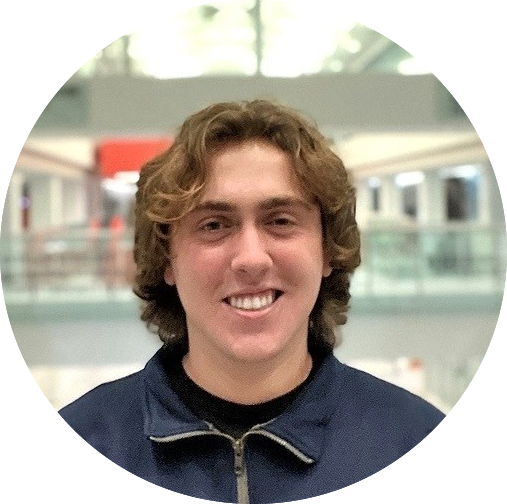
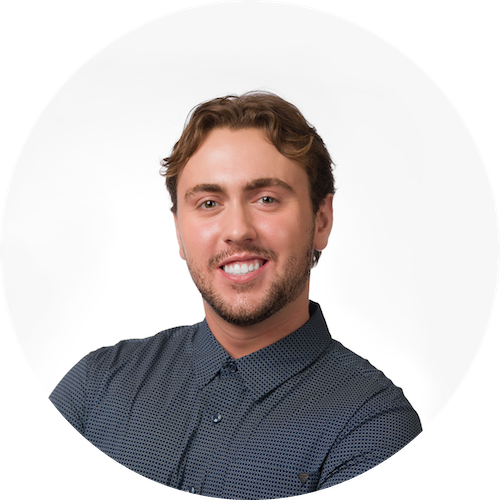
Update headshot and About Me section.

diff --git a/index.html b/index.html
@@ -106,23 +106,24 @@
                 <div class="col-sm-6 my-auto">
                     <h2>Hey there!</h2>
                     <p>
-                        I'm a fourth year Computer Engineering student currently on internship at
+                        My name is Cameron Estabrooks. I'm in my final year of Computer Engineering
+                        at Queen's University, graduating in the spring of 2024. 
+                        I recently finished a 16-month internship at
                         <a href="https://www.youtube.com/watch?v=rAezZ0_tHvk">Autodesk</a>
-                        as a Software Developer. I attend Queen's University, located in beautiful 
-                        Kingston, ON, Canada.<br><br>
+                        as a Software Developer.<br><br>
 
-                        I am seeking opportunities for the summer of 2023. <br><br>
+                        <b>I am currently seeking full-time opportunities for 2024.</b><br><br>
 
                         Since you can already see my professional experience on my 
-                        <a href="/resume.pdf">resume</a>, let's have some fun. I'm going to 
-                        list a few of my other passions, and if we are lucky, we'll have some 
-                        potential ice breakers :) <menu type="toolbar"></menu>
+                        <a href="/resume.pdf">resume</a>, here are a few of my other passions.
+                        Do we have any in common? <menu type="toolbar"></menu>
 
                         <ul>
-                            <li>Ski and snowboarding</li>
+                            <li>Skiing and snowboarding</li>
                             <li>Music production</li>
-                            <li>Guitar, ukulele, and piano</li>
+                            <li>Guitar, piano, and ukulele</li>
                             <li>Cooking</li>
+                            <li>Running</li>
                         </ul>
                     </p>
                 </div>
@@ -135,6 +136,7 @@
     <section id="portfolio-preview" style="padding: 30pt 0pt 80pt 0pt;">
         <div class="padded">
             <h1>Portfolio</h1>
+            <p>Below are some of my non-NDA projects.</p>
         </div>
 
         <!-- Portfolio Grid -->
@@ -414,7 +416,7 @@
         <div class="container text-center p-5">
             <div>
                 <a href="license.html">License Infomation</a>
-                <p>Concerns? Send them <a href="mailto:c.estabrooks@queensu.ca">here</a></p>
+                <p>Questions? Send them <a href="mailto:c.estabrooks@queensu.ca">here</a></p>
                 <br>
                 <p>Created and designed by Cameron Estabrooks</P>
             </div>
